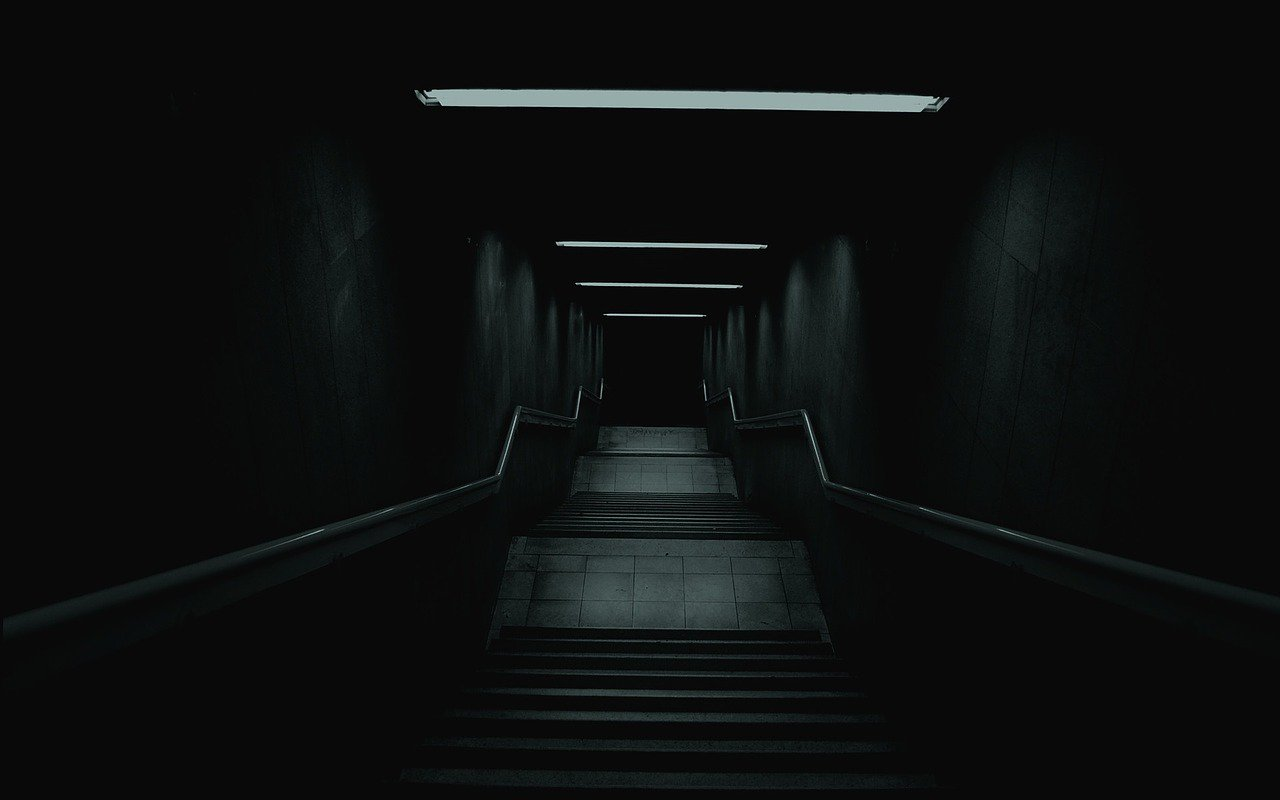
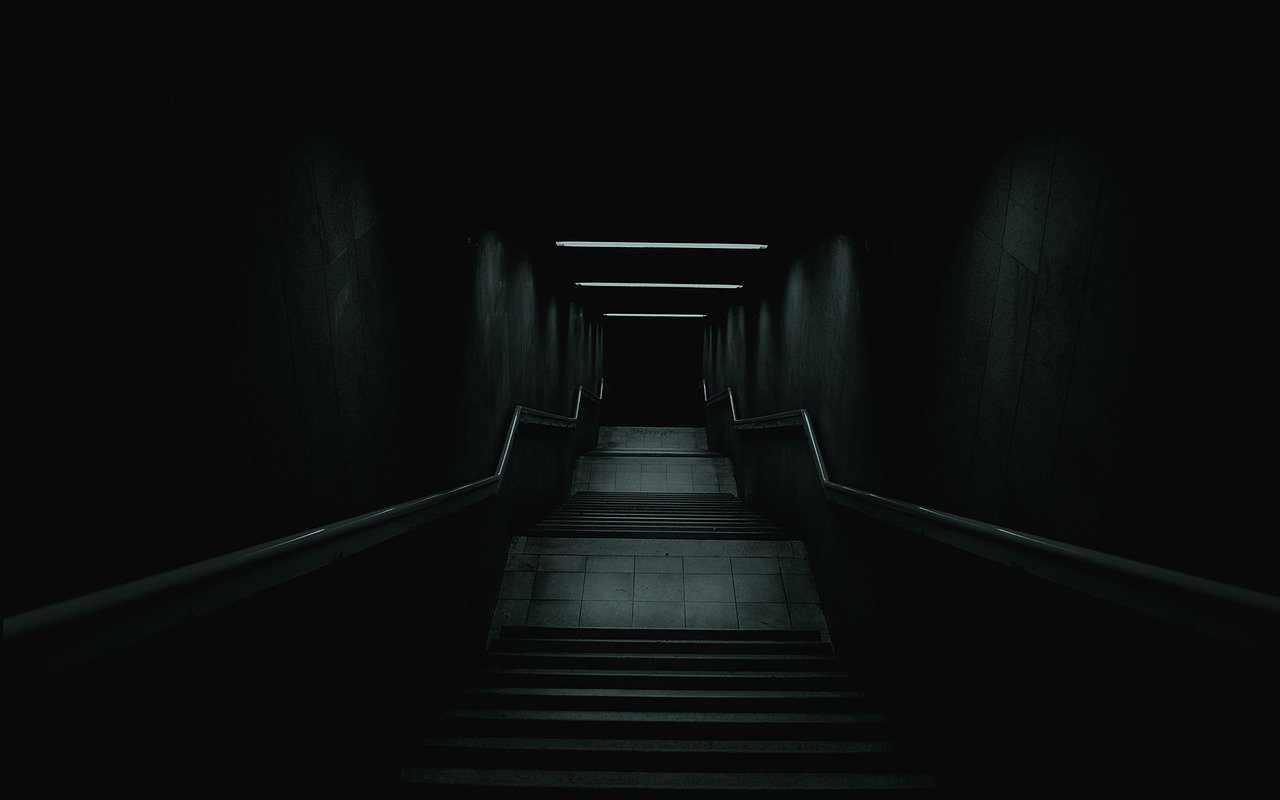
메인페이지 사진 수정

Changed region(s): [[0.3125, 0.0938, 0.75, 0.1562]]

diff --git a/html/ui.css b/html/ui.css
@@ -13,7 +13,7 @@
 
 /* 게임시작 창 */
 #startPage {
-    background-image: url("/img/background/cat1.jpeg");
+    background-image: url("/img/background/startPage.png");
     background-repeat: no-repeat;
     background-size: cover;
     width: 1024;
